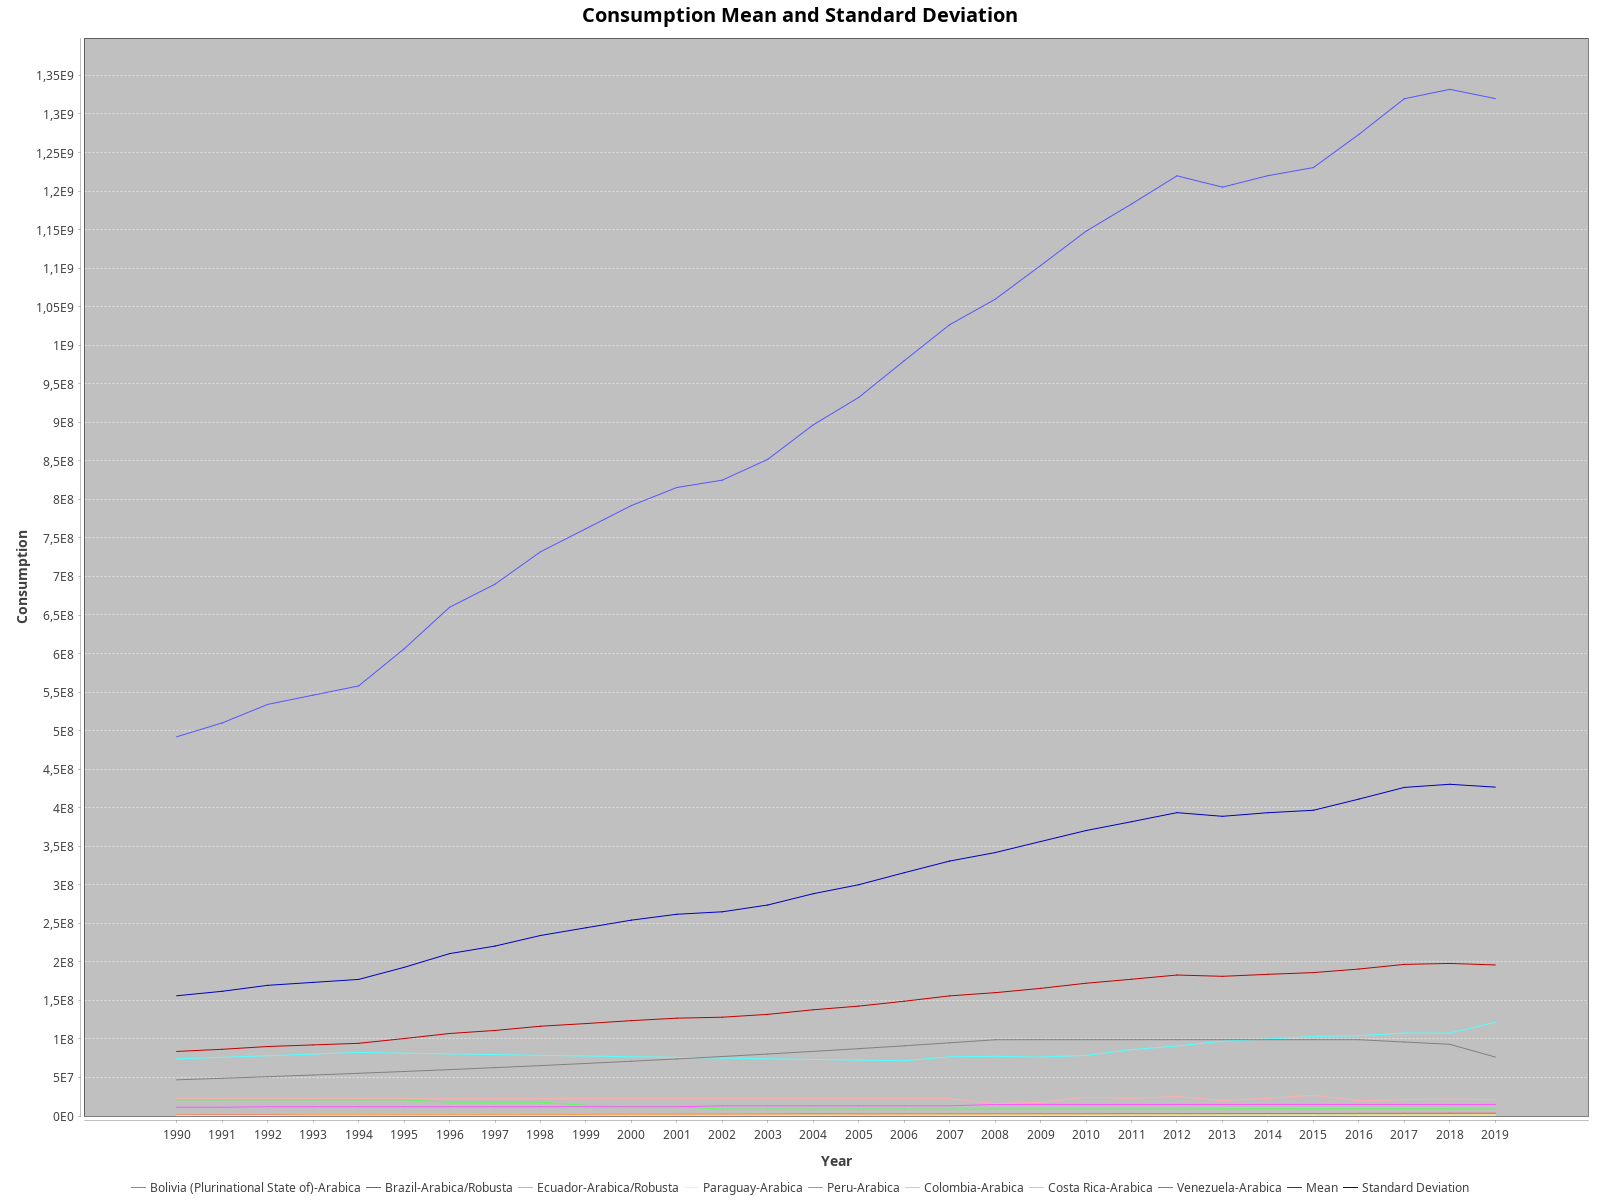
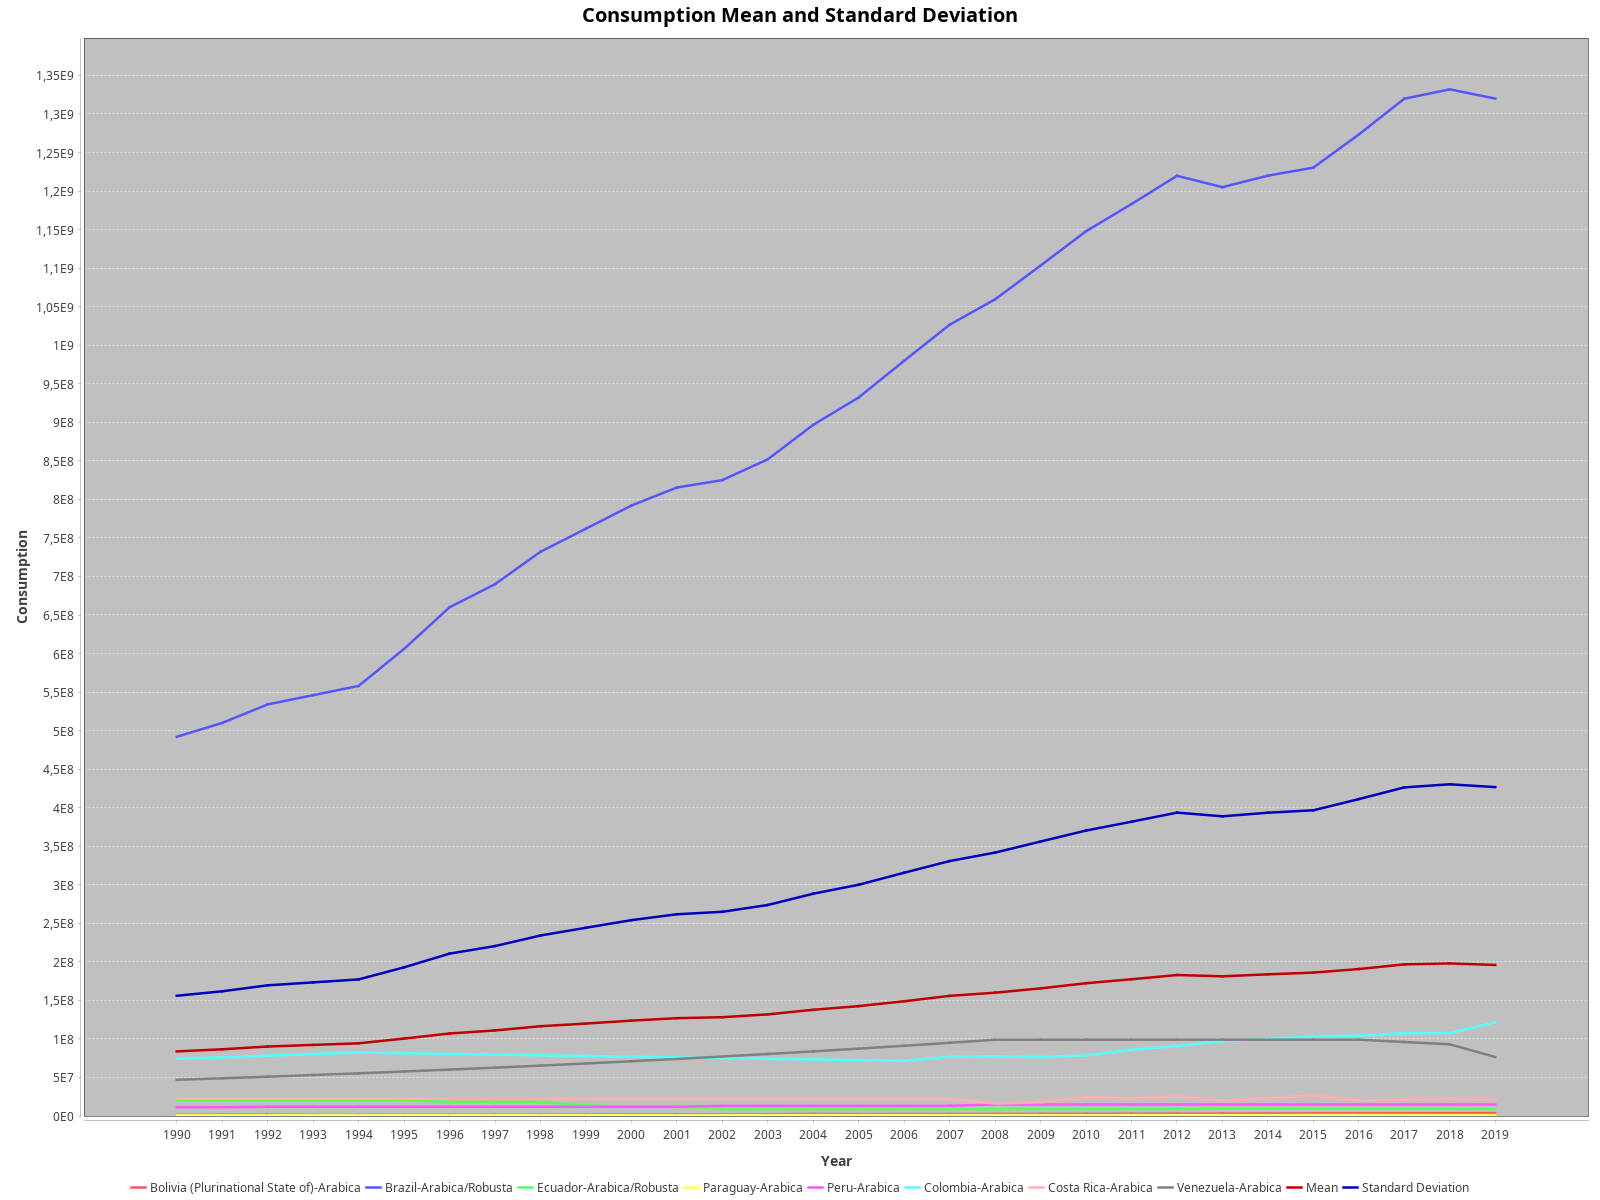
increase chart line width

Changed region(s): [[0.0938, 0.8633, 0.9375, 0.9558]]

diff --git a/client/DataAnalysis.java b/client/DataAnalysis.java
@@ -1,9 +1,12 @@
 package client;
 
+import java.awt.BasicStroke;
 import java.io.Serializable;
 import org.jfree.chart.ChartFactory;
 import org.jfree.chart.JFreeChart;
+import org.jfree.chart.plot.CategoryPlot;
 import org.jfree.chart.plot.PlotOrientation;
+import org.jfree.chart.renderer.category.LineAndShapeRenderer;
 import org.jfree.data.category.DefaultCategoryDataset;
 
 import compute.Task;
@@ -69,6 +72,17 @@ public class DataAnalysis implements Task<JFreeChart>, Serializable{
                 true, // tooltips
                 false // urls
         );
+
+        CategoryPlot plot = chart.getCategoryPlot();
+
+        // Get the line renderer
+        LineAndShapeRenderer renderer = (LineAndShapeRenderer) plot.getRenderer();
+
+        // Set the line width
+        float lineWidth = 2.5f; // Adjust the value as needed
+        for (int i = 0; i < dataset.getColumnCount(); i++) {
+            renderer.setSeriesStroke(i, new BasicStroke(lineWidth));
+        }
         
         return chart;
     }

diff --git a/client/ComputeCode.java b/client/ComputeCode.java
@@ -147,7 +147,7 @@ public class ComputeCode {
             JFreeChart chart = computeEng.executeTask(task);
             //save chart
             saveChart(chart);
-            System.out.println("Chart saved successfuly into \"chart.txt\".");
+            System.out.println("Chart saved successfuly into \"chart.png\".");
             System.out.println("\n\n");
         } catch (Exception e) {
             System.err.println("ComputeDataAnalisys exception:");
